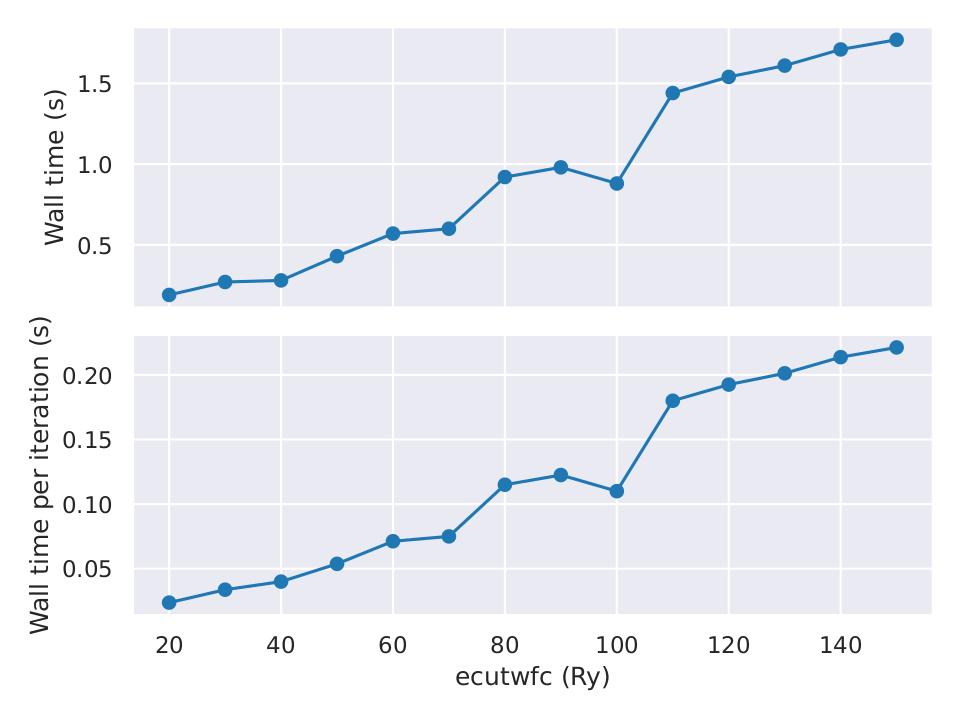
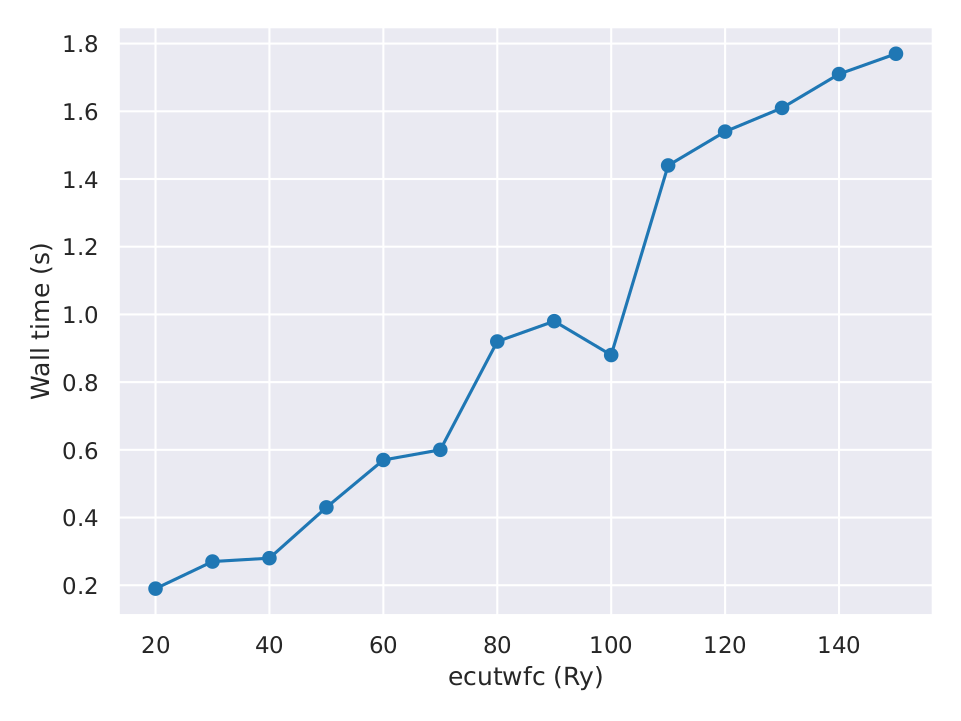
Tidying day 1 solutions further

diff --git a/day-01-density-functional-theory/README.md b/day-01-density-functional-theory/README.md
@@ -64,11 +64,9 @@ Plot the energy *vs.* cutoff energy data, and determine when the total energy is
 <details>
 <summary><b>Solution</b></summary>
 
-The threshold of 5 meV/atom corresponds to 10 meV/cell ≈ 7.4 × 10⁻⁴ Ry/cell for the 2-atom primitive cell. Beyond `ecutwfc = 80 Ry` the total energy never changes by more than this amount, so the energy is converged to within 5 meV/atom at **`ecutwfc ≈ 80 Ry`**.
+Beyond `ecutwfc = 80 Ry` the total energy never changes by more than the threshold, so the energy is converged to within 5 meV/atom at **`ecutwfc ≈ 80 Ry`**.
 
 ![Total energy vs ecutwfc](solutions/energy_vs_ecutwfc.png)
-
-The lower panel plots $|\Delta E|$ relative to the most accurate calculation on a log scale; the dashed line marks the 5 meV/atom threshold and the orange dot marks the converged cutoff.
 
 </details>
 
@@ -90,7 +88,7 @@ Plot the wall time as a function of the kinetic energy cutoff. Can you explain t
 <details>
 <summary><b>Solution</b></summary>
 
-The wall time grows superlinearly with `ecutwfc`. The number of plane waves scales as $E_\text{cut}^{3/2}$, and the cost of the operations performed on them (diagonalisation, FFTs, ...) scales worse than linearly in the number of plane waves, so the overall scaling is superlinear. The precise scaling depends on implementation details.
+The wall time grows superlinearly with `ecutwfc`. The number of plane waves scales as $E_\text{cut}^{3/2}$, and the cost of the operations performed on them (diagonalisation, FFTs, ...) scales worse than linearly in the number of plane waves, so the overall scaling is superlinear. (The precise scaling will depend on specific implementation details.)
 
 ![Wall time vs ecutwfc](solutions/timing_vs_ecutwfc.png)
 
@@ -109,7 +107,7 @@ In order to calculate forces, we first need to displace an atom from its equilib
 <details>
 <summary><b>Solution</b></summary>
 
-At the equilibrium geometry the forces on all atoms vanish by symmetry. Without displacing an atom there is nothing meaningful to converge — the force would be (numerically close to) zero regardless of the cutoff.
+At the equilibrium geometry the forces on all atoms vanish by symmetry. Without displacing an atom there is nothing meaningful to converge — the force would be zero regardless of the cutoff.
 
 </details>
 
@@ -133,8 +131,6 @@ Displace a Na (or Cl) atom by +0.05 in the *c* direction (fractional coordinates
 
 ![z-component of the force vs ecutwfc](solutions/forces_vs_ecutwfc.png)
 
-The lower panel plots $|\Delta F_z|$ relative to the most accurate calculation; the dashed line marks the 10 meV/Å threshold and the orange dot marks the converged cutoff. Note that the force does not converge as smoothly as the energy did (see Part C).
-
 </details>
 
 ### Part C
@@ -144,7 +140,7 @@ Do you see a trend in the forces with respect to the energy cutoff? If you see a
 <details>
 <summary><b>Solution</b></summary>
 
-Unlike total energies, forces are *not* guaranteed to converge monotonically with the cutoff. The variational principle bounds the total energy but says nothing about its derivatives, so the forces may oscillate before settling down.
+Unlike total energies, forces are *not* guaranteed to converge monotonically with the cutoff. The variational principle bounds the total energy but says nothing about its derivatives, so the forces may oscillate before converging.
 
 </details>
 
@@ -180,7 +176,7 @@ Converge the total energy with respect to the _**k**_-point mesh size to within 
 
 ![Total energy vs k-point grid](solutions/energy_vs_kpts.png)
 
-The lower panel plots $|\Delta E|$ relative to the most accurate calculation; the dashed line marks the 5 meV/atom threshold. The total energy is converged to within 5 meV/atom with a **4×4×4** grid.
+The total energy is converged to within 5 meV/atom with a **4×4×4** grid.
 
 </details>
 
@@ -247,8 +243,6 @@ Do total energies or forces tend to converge faster? Why?
 
 In practice the forces — or, equivalently, energy *differences* — converge faster than absolute total energies. For small displacements the convergence errors at the displaced and undisplaced geometries are highly correlated, so they largely cancel when you take the difference.
 
-Be careful about what "faster" means, though: convergence thresholds are arbitrary and depend on the units chosen. Tightening the force threshold (say to 5 µeV/atom) would demand a higher cutoff, but the underlying raw data — and the rate at which it approaches the true answer — would be unchanged.
-
 </details>
 
 ### Part C
@@ -269,7 +263,9 @@ Based on your convergence tests, state the values of `ecutwfc` and the _**k**_-p
 <details>
 <summary><b>Solution</b></summary>
 
-Choose the *smallest* `ecutwfc` and _**k**_-point grid that converge both energies and forces to the required thresholds. Picking an excessively large cutoff or grid defeats the purpose of convergence testing, which is to avoid unnecessary computational expense.
+`ecutwfc = 80 Ry` and _**k**_-point grid = `4 4 4`
+
+Note: don't be conservative and pick larger values. This defeats the purpose of convergence testing, which is to avoid unnecessary computational expense.
 
 </details>
 
@@ -290,7 +286,7 @@ Determine the equilibrium lattice parameter of NaCl by calculating its energy-ve
 <details>
 <summary><b>Solution</b></summary>
 
-Compute the total energy as a function of cell volume (or lattice parameter), plot it, and fit it to locate the minimum. The minimum gives the equilibrium lattice parameter. A parabolic fit gives $a_0 \approx 10.76$ Bohr ($\approx 5.70$ Å), close to the experimental value of 5.64 Å.
+Compute the total energy as a function of cell volume (or lattice parameter), plot it, and fit it to locate the minimum. The minimum gives the equilibrium lattice parameter. A (rough) parabolic fit gives $a_0 \approx 10.76$ Bohr.
 
 ![Energy vs cell volume](solutions/fit_parabolic_bulkmodulus.png)
 
@@ -318,10 +314,6 @@ Using the fact that pressure can be written as a derivative of energy with respe
 Pressure is $P = -\partial E/\partial V$, so
 
 $$ B = -V_0 \left.\frac{\partial P}{\partial V}\right|_{V_0} = V_0 \left.\frac{\partial^2 E}{\partial V^2}\right|_{V_0}. $$
-
-Approximating $E(V)$ to second order about the equilibrium volume, $E(V) \approx E_0 + \tfrac{1}{2} E''(V_0)(V - V_0)^2$, and evaluating the second derivative with three energies computed at $V_0$ and $V_0 \pm \Delta V$ gives the finite-difference formula
-
-$$ B = V_0\, \frac{E(V_0 + \Delta V) - 2 E(V_0) + E(V_0 - \Delta V)}{\Delta V^2}. $$
 
 </details>
 
@@ -390,7 +382,7 @@ Calculate the bulk modulus *B* of NaCl using the third-order Birch–Murnaghan i
 <details>
 <summary><b>Solution</b></summary>
 
-Fitting the $E(V)$ data to the third-order Birch–Murnaghan equation of state gives $B \approx 24$ GPa, in good agreement with the second-order value.
+Fitting the $E(V)$ data to the third-order Birch–Murnaghan equation of state gives $B \approx 24$ GPa.
 
 ![Birch–Murnaghan fit of energy vs cell volume](solutions/fit_birchmurnaghan_bulkmodulus.png)
 
@@ -415,7 +407,13 @@ $$ \sigma_{ij} = \sum_{kl} C_{ijkl}\, \epsilon_{kl}, $$
 
 where $\sigma_{ij}$ is the stress tensor, $\epsilon_{kl} = \Delta L / L$ is the strain tensor, and $C_{ijkl}$ is the **stiffness tensor** — an intrinsic property of the material. This is a linear approximation, valid only for small strains.
 
-The stiffness tensor has 81 components, but symmetries of $\sigma$ and $\epsilon$ reduce this to 36, and the symmetry $C_{ij} = C_{ji}$ further reduces it to 21 independent components. Using **Voigt notation** (1=*xx*, 2=*yy*, 3=*zz*, 4=*yz*, 5=*zx*, 6=*xy*) we can write Hooke's law as a 6×6 matrix equation. **Cubic symmetry** (as in NaCl) reduces the independent components to just three: *C*₁₁, *C*₁₂, and *C*₄₄.
+The stiffness tensor has 81 components, but symmetries of $\sigma$ and $\epsilon$ reduce this to 36, and the symmetry $C_{ij} = C_{ji}$ further reduces it to 21 independent components. Using **Voigt notation** (1=*xx*, 2=*yy*, 3=*zz*, 4=*yz*, 5=*zx*, 6=*xy*) we can write Hooke's law as a 6×6 matrix equation,
+
+$$ \begin{pmatrix} \sigma_1 \cr \sigma_2 \cr \sigma_3 \cr \sigma_4 \cr \sigma_5 \cr \sigma_6 \end{pmatrix} = \begin{pmatrix} C_{11} & C_{12} & C_{13} & C_{14} & C_{15} & C_{16} \cr C_{12} & C_{22} & C_{23} & C_{24} & C_{25} & C_{26} \cr C_{13} & C_{23} & C_{33} & C_{34} & C_{35} & C_{36} \cr C_{14} & C_{24} & C_{34} & C_{44} & C_{45} & C_{46} \cr C_{15} & C_{25} & C_{35} & C_{45} & C_{55} & C_{56} \cr C_{16} & C_{26} & C_{36} & C_{46} & C_{56} & C_{66} \end{pmatrix} \begin{pmatrix} \epsilon_1 \cr \epsilon_2 \cr \epsilon_3 \cr \epsilon_4 \cr \epsilon_5 \cr \epsilon_6 \end{pmatrix}. $$
+
+**Cubic symmetry** (as in NaCl) reduces the independent components to just three — *C*₁₁, *C*₁₂, and *C*₄₄ — and the stiffness matrix takes the form
+
+$$ \mathbf{C} = \begin{pmatrix} C_{11} & C_{12} & C_{12} & 0 & 0 & 0 \cr C_{12} & C_{11} & C_{12} & 0 & 0 & 0 \cr C_{12} & C_{12} & C_{11} & 0 & 0 & 0 \cr 0 & 0 & 0 & C_{44} & 0 & 0 \cr 0 & 0 & 0 & 0 & C_{44} & 0 \cr 0 & 0 & 0 & 0 & 0 & C_{44} \end{pmatrix}. $$
 
 Strain is applied to the lattice vectors by
 
@@ -470,6 +468,14 @@ celldm(1) = |a'1|
 celldm(2) = |a'2| / |a'1|
 celldm(3) = |a'3| / |a'1|
 ```
+
+Applying the strain $\varepsilon$ to the cubic lattice vectors gives $|a'_1| = a(1+x)$, where `a` is the optimized lattice parameter from Problems 5 and 6. In your script you can therefore compute this `celldm` value for a given strain `x` with:
+
+```bash
+celldm1=$(echo "$a * (1 + $x)" | bc -l)
+```
+
+and the remaining `celldm` values follow analogously.
 
 > **Note**
 >
@@ -531,7 +537,7 @@ How much longer did the individual calculations on a conventional cell take comp
 <details>
 <summary><b>Solution</b></summary>
 
-The conventional cell has 4× as many atoms as the primitive cell (8 vs 2). Since the cost of DFT scales as $\mathcal{O}(N^3)$ in the number of electrons, each calculation is expected to be roughly $4^3 = 64\times$ more expensive *per _**k**_ point*. This is partially offset because the conventional cell has a smaller Brillouin zone and therefore needs fewer _**k**_ points for the same sampling density.
+The conventional cell has 4× as many atoms as the primitive cell (8 vs 2). Since the cost of DFT scales as $\mathcal{O}(N^3)$ in the number of electrons, each calculation is expected to be roughly $4^3 = 64\times$ more expensive *per _**k**_ point*. This could be partially offset if we used a smaller _**k**_-point grid (because the conventional cell has a smaller Brillouin zone and therefore needs fewer _**k**_ points for the same sampling density).
 
 </details>
 
@@ -557,7 +563,7 @@ In our convergence tests we ensured that total energies and forces were converge
 <details>
 <summary><b>Solution</b></summary>
 
-Forces (derivatives of the total energy) are a better — though still imperfect — proxy for lattice parameters, bulk moduli, and elastic constants than total energies, because all of these quantities depend on energy *derivatives*. The most direct choice would be to converge the derived quantities themselves, but in practice that is inefficient: the point of convergence testing is to use cheap proxies and so avoid expensive calculations.
+Forces (derivatives of the total energy) are a better — though still imperfect — proxy for lattice parameters, bulk moduli, and elastic constants than total energies, because all of these quantities depend on energy *derivatives*. The most direct choice would be to converge stresses, as this is the relevant second-order derivative. One might be tempted to converge the target properties themselves, but in practice that is inefficient: the point of convergence testing is to use cheap proxies and so avoid expensive calculations.
 
 </details>
 
@@ -568,15 +574,13 @@ Compare your computed lattice parameter, bulk modulus (calculated using both the
 <details>
 <summary><b>Solution</b></summary>
 
-Present a quantitative comparison — *e.g.* a table of computed values, experimental values, and percentage errors — citing multiple experimental sources for each property. Representative experimental values for NaCl are:
-
-| Property | Experiment |
-| --- | --- |
-| Lattice constant | 5.64 Å (Swanson & Tatge, 1953) |
-| Bulk modulus $B$ | 24.6 GPa (Whitfield *et al.*, 1976); 25.3 GPa (Kinoshita *et al.*, 1979) |
-| $C_{11}$ | 48.2 GPa (Whitfield, 1976); 51.6 GPa (Kinoshita, 1979) |
-| $C_{12}$ | 12.8 GPa (Whitfield, 1976); 12.2 GPa (Kinoshita, 1979) |
-| $C_{44}$ | 12.7 GPa (Whitfield, 1976); 13.6 GPa (Kinoshita, 1979) |
+| Property | This work (DFT) | Experiment |
+| --- | --- | --- |
+| Lattice constant (Å) | 5.69 | 5.64<sup>[1](#swanson1953)</sup> |
+| Bulk modulus $B$ (GPa) | 26 (parabolic); 24 (Birch–Murnaghan) | 24.6<sup>[2](#whitfield1976)</sup>; 25.3<sup>[3](#kinoshita1979)</sup> |
+| $C_{11}$ (GPa) | 47 | 48.2<sup>[2](#whitfield1976)</sup>; 51.6<sup>[3](#kinoshita1979)</sup> |
+| $C_{12}$ (GPa) | 12 | 12.8<sup>[2](#whitfield1976)</sup>; 12.2<sup>[3](#kinoshita1979)</sup> |
+| $C_{44}$ (GPa) | 12 | 12.7<sup>[2](#whitfield1976)</sup>; 13.6<sup>[3](#kinoshita1979)</sup> |
 
 For the bulk modulus, the Birch–Murnaghan value should agree with experiment better than the parabolic fit, especially if the parabolic fit is shaky.
 
@@ -589,9 +593,20 @@ Do we expect semi-local DFT to be able to predict these properties with high acc
 <details>
 <summary><b>Solution</b></summary>
 
-These are all ground-state properties, for which DFT is generally reliable. For example, across a wide range of materials the PBE functional gives a mean absolute relative error of about 4% in cell volumes — corresponding to roughly 1% in lattice parameters — so we expect semi-local DFT to perform reasonably well here.
+These are all ground-state properties, for which DFT is generally reliable. For example, across a wide range of materials the PBE functional gives a mean absolute relative error of about 4% in cell volumes<sup>[4](#isaacs2018)</sup> — corresponding to roughly 1% in lattice parameters — so we expect semi-local DFT to perform reasonably well here.
 
 </details>
+
+---
+
+## References
+
+1. <a id="swanson1953"></a>H. E. Swanson and R. K. Fuyat, *Standard X-ray Diffraction Powder Patterns*, Circular of the Bureau of Standards no. 539, Volume 2, National Bureau of Standards (1953). [archive.org](http://archive.org/details/circularofbureau5392swan)
+2. <a id="whitfield1976"></a>C. H. Whitfield, E. M. Brody, and W. A. Bassett, "Elastic moduli of NaCl by Brillouin scattering at high pressure in a diamond anvil cell", *Review of Scientific Instruments* **47**(8), 942–947 (1976). [doi:10.1063/[phone redacted]](https://doi.org/10.1063/[phone redacted])
+3. <a id="kinoshita1979"></a>H. Kinoshita, N. Hamaya, and H. Fujisawa, "Elastic properties of single-crystal NaCl under high pressures to 80 kbar", *Journal of Physics of the Earth* **27**, 337–350 (1979).
+4. <a id="isaacs2018"></a>E. B. Isaacs and C. Wolverton, "Performance of the strongly constrained and appropriately normed density functional for solid-state materials", *Physical Review Materials* **2**, 063801 (2018). [doi:10.1103/PhysRevMaterials.2.063801](https://doi.org/10.1103/PhysRevMaterials.2.063801)
+
+---
 
 # TODO
 - [ ] band structures